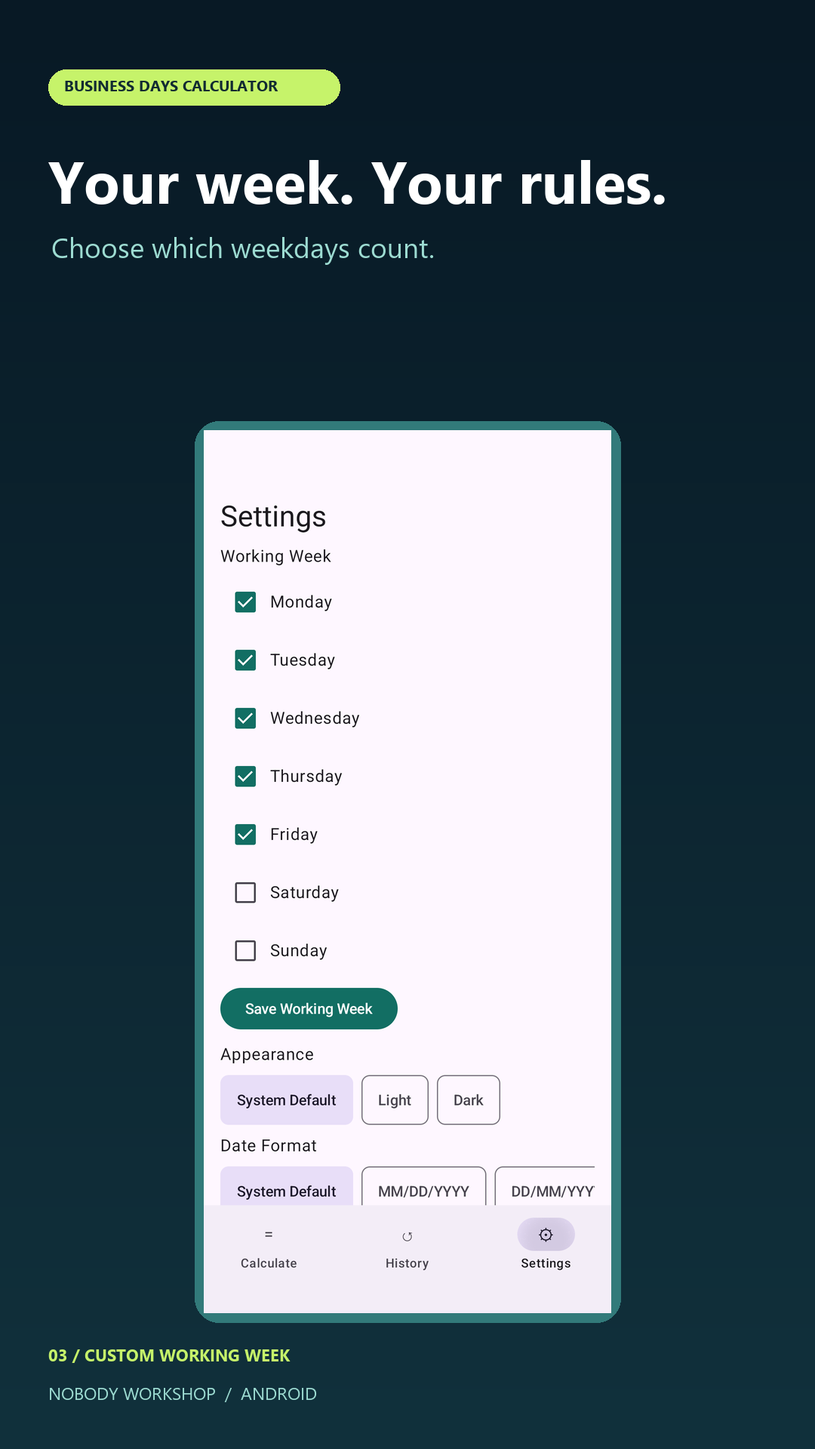
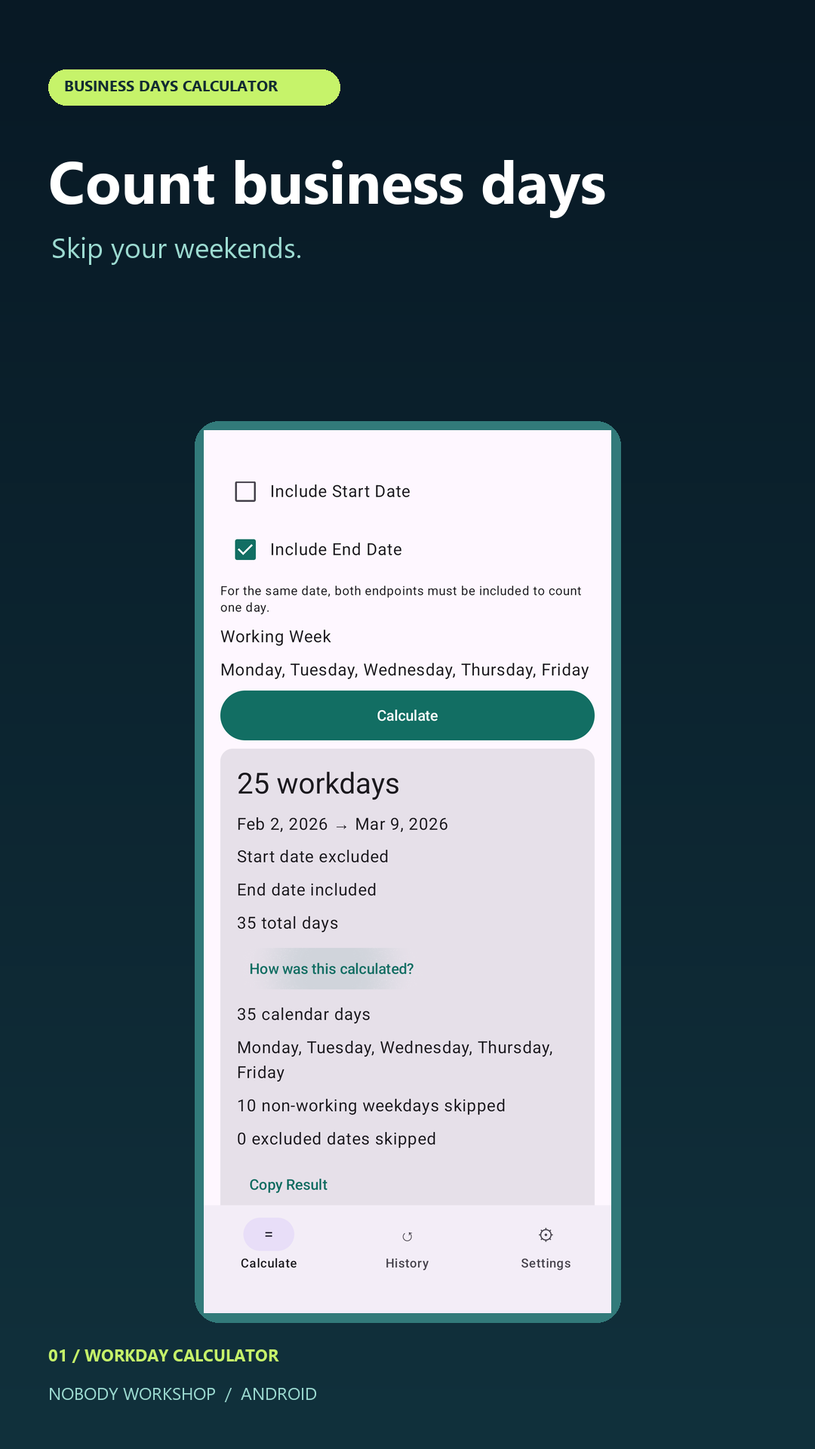
Clarify three product pages with verified steps, screenshots and FAQs

diff --git a/brand-site/business-days/index.html b/brand-site/business-days/index.html
@@ -1,1 +1,1 @@
-<!doctype html><html lang="en"><head><meta charset="utf-8"><meta name="viewport" content="width=device-width,initial-scale=1"><meta name="theme-color" content="#f8f7f2"><title>Business Days: Date Calculator — Nobody Workshop</title><meta name="description" content="Count workdays, add or subtract days, and plan dates with your own working week."><link rel="canonical" href="https://nobodyworkshop.com/business-days/"><meta property="og:title" content="Business Days: Date Calculator — Nobody Workshop"><meta property="og:description" content="Count workdays, add or subtract days, and plan dates with your own working week."><meta property="og:type" content="website"><meta property="og:url" content="https://nobodyworkshop.com/business-days/"><link rel="icon" href="assets/mark.svg" type="image/svg+xml"><link rel="stylesheet" href="assets/site.css"><script type="application/ld+json">{"@context": "https://schema.org", "@type": "SoftwareApplication", "name": "Business Days: Date Calculator", "operatingSystem": "Android", "applicationCategory": "TOOLS", "description": "Count workdays, add or subtract days, and plan dates with your own working week.", "url": "https://nobodyworkshop.com/business-days/", "installUrl": "https://play.google.com/store/apps/details?id=com.nobodyworkshop.businessdays&hl=en_US&gl=US", "image": "https://nobodyworkshop.com/business-days/assets/icon.webp", "author": {"@type": "Organization", "name": "Nobody Workshop"}}</script></head><body><a class="skip" href="#main">Skip to content</a><header class="header wrap"><a class="brand" href="../" aria-label="Nobody Workshop home"><span class="brand-symbol" aria-hidden="true">nw</span><span>Nobody Workshop<span aria-hidden="true">.</span></span></a><a class="back" href="../#products">← All products</a></header><main id="main" class="wrap"><section class="product-hero"><div><img class="detail-icon" src="assets/icon.webp" alt="Business Days: Date Calculator icon" width="86" height="86"><div class="eyebrow" style="margin-top:24px">Utilities / Android App</div><h1>Business Days: Date Calculator</h1><p>Count workdays, add or subtract days, and plan dates with your own working week.</p><a class="pill dark" href="https://play.google.com/store/apps/details?id=com.nobodyworkshop.businessdays&amp;hl=en_US&amp;gl=US">Get it on Google Play <span class="arrow" aria-hidden="true">↗</span></a><div class="detail-meta">By Nobody Workshop · Contains ads<br>Availability and purchase details are shown on Google Play.</div></div><div class="product-art"><img src="assets/screenshot-1.webp" width="1080" height="1920" alt="Business Days: Date Calculator — official store screenshot 1"><img src="assets/screenshot-2.webp" width="1080" height="1920" alt="Business Days: Date Calculator — official store screenshot 2" loading="lazy"></div></section><section class="detail-faq"><div class="eyebrow">A few things to know</div><h2>Before you give it a try.</h2><details><summary>Where can I get it?</summary><p>Download the Android version using the Google Play link above. Google Play shows availability for your country and device.</p></details><details><summary>What do I do in Business Days: Date Calculator?</summary><p>Count workdays, add or subtract days, and plan dates with your own working week.</p></details><details><summary>Does it contain ads?</summary><p>The current Google Play listing declares ads. Check the store page for the latest purchase details and regional availability.</p></details><details><summary>How can I share feedback?</summary><p>Email service@nobodyworkshop.com with the product name and a short description of what happened. Honest feedback is welcome.</p></details><p class="detail-meta"><a class="text-link" href="https://happyxray618.github.io/nobody-workshop-privacy/businessdays/privacy-policy.html">Product privacy policy ↗</a></p></section><section class="product-bottom"><h2>Made it part of your day?</h2><p>Tell me what you think. The person who built it is listening.</p><a class="pill" href="mailto:service@nobodyworkshop.com?subject=business-days%20feedback">Send honest feedback ↗</a></section></main><footer class="wrap"><div class="footer"><a class="brand" href="../" aria-label="Nobody Workshop home"><span class="brand-symbol" aria-hidden="true">nw</span><span>Nobody Workshop<span aria-hidden="true">.</span></span></a><div class="footer-links"><a href="https://play.google.com/store/apps/developer?id=NobodyWorkshop">Google Play ↗</a><a href="mailto:service@nobodyworkshop.com">Support ↗</a><a href="../privacy/">Privacy</a></div><span>© 2026 Nobody Workshop</span></div><div class="legal-note">Android and Google Play are trademarks of Google LLC. Product availability, pricing and features may vary by region and version.</div></footer></body></html>
+<!doctype html><html lang="en"><head><meta charset="utf-8"><meta name="viewport" content="width=device-width,initial-scale=1"><meta name="theme-color" content="#f8f7f2"><title>Business Days: Date Calculator — Nobody Workshop</title><meta name="description" content="Count working days between dates or find a date by adding or subtracting workdays. Choose your working week, add excluded dates, and check exactly how the result was calculated."><link rel="canonical" href="https://nobodyworkshop.com/business-days/"><meta property="og:title" content="Business Days: Date Calculator — Nobody Workshop"><meta property="og:description" content="Count working days between dates or find a date by adding or subtracting workdays. Choose your working week, add excluded dates, and check exactly how the result was calculated."><meta property="og:type" content="website"><meta property="og:url" content="https://nobodyworkshop.com/business-days/"><link rel="icon" href="assets/mark.svg" type="image/svg+xml"><link rel="stylesheet" href="assets/site.css"><script type="application/ld+json">{"@context": "https://schema.org", "@type": "SoftwareApplication", "name": "Business Days: Date Calculator", "operatingSystem": "Android", "applicationCategory": "TOOLS", "description": "Count working days between dates or find a date by adding or subtracting workdays. Choose your working week, add excluded dates, and check exactly how the result was calculated.", "url": "https://nobodyworkshop.com/business-days/", "installUrl": "https://play.google.com/store/apps/details?id=com.nobodyworkshop.businessdays&hl=en_US&gl=US", "image": "https://nobodyworkshop.com/business-days/assets/icon.webp", "author": {"@type": "Organization", "name": "Nobody Workshop"}}</script><style>.product-guide{max-width:850px;margin:0 auto 64px}.product-guide h2{font-size:32px;letter-spacing:-1px;line-height:1.2}.product-guide p,.product-guide li{font-size:16px;line-height:1.75;color:var(--muted)}.product-guide li{padding:0 0 14px 8px}.product-guide ol{padding-left:24px}.product-guide .example{padding:20px 24px;background:#e6e9dd;border-radius:18px}.detail-faq details p{font-size:16px}.product-art figure{margin:0;flex:1;min-width:0}.product-art figure img{max-width:100%;width:100%;height:380px}.product-art figcaption{font-size:14px;line-height:1.5;color:var(--muted);margin-top:12px}@media(max-width:760px){.product-guide{margin-bottom:40px}.product-guide h2{font-size:28px}.product-art figure img{height:300px}}</style></head><body><a class="skip" href="#main">Skip to content</a><header class="header wrap"><a class="brand" href="../" aria-label="Nobody Workshop home"><span class="brand-symbol" aria-hidden="true">nw</span><span>Nobody Workshop<span aria-hidden="true">.</span></span></a><a class="back" href="../#products">← All products</a></header><main id="main" class="wrap"><section class="product-hero"><div><img class="detail-icon" src="assets/icon.webp" alt="Business Days: Date Calculator icon" width="86" height="86"><div class="eyebrow" style="margin-top:24px">Utilities / Android App</div><h1>Business Days: Date Calculator</h1><p>Count working days between dates or find a date by adding or subtracting workdays. Choose your working week, add excluded dates, and check exactly how the result was calculated.</p><a class="pill dark" href="https://play.google.com/store/apps/details?id=com.nobodyworkshop.businessdays&amp;hl=en_US&amp;gl=US">Get it on Google Play <span class="arrow" aria-hidden="true">↗</span></a><div class="detail-meta">By Nobody Workshop · Contains ads<br>Availability and purchase details are shown on Google Play.</div></div><div class="product-art"><figure><img src="assets/screenshot-1.webp" width="1080" height="1920" alt="Check the working-day count and calculation details"><figcaption>Check the working-day count and calculation details</figcaption></figure><figure><img src="assets/screenshot-2.webp" width="1080" height="1920" alt="Choose which weekdays count as working days" loading="lazy"><figcaption>Choose which weekdays count as working days</figcaption></figure></div></section><section class="product-guide" aria-labelledby="how-it-works"><div class="eyebrow">How it works</div><h2 id="how-it-works">From a date question to a result you can check</h2><p class="example">Planning a project or a delivery estimate? Choose the start date and number of workdays, then set your working weekdays and any excluded dates. Review the resulting date and the days skipped before using the estimate.</p><ol><li>Choose business days between dates, add or subtract workdays, calendar days between dates, or add or subtract calendar days.</li><li>Enter your dates or day offset. Select the working weekdays, manually excluded dates, and whether the start and end dates count.</li><li>Read the result and expand the calculation details to check boundaries and skipped dates. Copy the result or reopen one of your five most recent calculations.</li></ol></section><section class="detail-faq"><div class="eyebrow">A few things to know</div><h2>Before you give it a try.</h2><details><summary>Can I use a different working week?</summary><p>Yes. Choose Monday–Friday, Sunday–Thursday, Monday–Saturday or your own combination of weekdays.</p></details><details><summary>Are public holidays excluded automatically?</summary><p>No. Add holidays, company closures or leave dates manually. Public holidays are not supplied or updated automatically.</p></details><details><summary>Can I include or exclude the start and end dates?</summary><p>Yes. Choose whether the boundary dates count, then expand the calculation details to check the rules applied.</p></details><details><summary>Does it work offline, and do I need an account?</summary><p>The core date tools work offline without an account or calendar permission. Calculations and settings stay on this device and do not sync.</p></details><details><summary>Do I have to watch an ad to calculate a date?</summary><p>No. Core calculations and explanations do not require an ad. The app contains banner ads; optional rewarded ads unlock Batch Calculator for the current session or hide banners for 30 minutes.</p></details><details><summary>Can I use it to determine a legal deadline?</summary><p>The app is a date calculator, not a legal deadline service. It does not automatically apply regional holiday rules or determine legal deadlines.</p></details><details><summary>Where can I download Business Days: Date Calculator?</summary><p>Use the Google Play link on this page. Availability depends on your country and device.</p></details><details><summary>Does it contain ads?</summary><p>Yes. The current Google Play listing declares ads. See the product privacy policy for details.</p></details><details><summary>How can I get support?</summary><p>Email service@nobodyworkshop.com with the product name and a short description of your question.</p></details><p class="detail-meta"><a class="text-link" href="https://happyxray618.github.io/nobody-workshop-privacy/businessdays/privacy-policy.html">Product privacy policy ↗</a></p></section><section class="product-bottom"><h2>Made it part of your day?</h2><p>Tell me what you think. The person who built it is listening.</p><a class="pill" href="mailto:service@nobodyworkshop.com?subject=business-days%20feedback">Send honest feedback ↗</a></section></main><footer class="wrap"><div class="footer"><a class="brand" href="../" aria-label="Nobody Workshop home"><span class="brand-symbol" aria-hidden="true">nw</span><span>Nobody Workshop<span aria-hidden="true">.</span></span></a><div class="footer-links"><a href="https://play.google.com/store/apps/developer?id=NobodyWorkshop">Google Play ↗</a><a href="mailto:service@nobodyworkshop.com">Support ↗</a><a href="../privacy/">Privacy</a></div><span>© 2026 Nobody Workshop</span></div><div class="legal-note">Android and Google Play are trademarks of Google LLC. Product availability, pricing and features may vary by region and version.</div></footer></body></html>

diff --git a/brand-site/winter-atelier/index.html b/brand-site/winter-atelier/index.html
@@ -1,1 +1,1 @@
-<!doctype html><html lang="en"><head><meta charset="utf-8"><meta name="viewport" content="width=device-width,initial-scale=1"><meta name="theme-color" content="#f8f7f2"><title>Tile Match: Cozy Cabin — Nobody Workshop</title><meta name="description" content="Relax with triple tile matching puzzles and decorate your cozy winter cabin."><link rel="canonical" href="https://nobodyworkshop.com/winter-atelier/"><meta property="og:title" content="Tile Match: Cozy Cabin — Nobody Workshop"><meta property="og:description" content="Relax with triple tile matching puzzles and decorate your cozy winter cabin."><meta property="og:type" content="website"><meta property="og:url" content="https://nobodyworkshop.com/winter-atelier/"><link rel="icon" href="assets/mark.svg" type="image/svg+xml"><link rel="stylesheet" href="assets/site.css"><script type="application/ld+json">{"@context": "https://schema.org", "@type": "SoftwareApplication", "name": "Tile Match: Cozy Cabin", "operatingSystem": "Android", "applicationCategory": "GAME_PUZZLE", "description": "Relax with triple tile matching puzzles and decorate your cozy winter cabin.", "url": "https://nobodyworkshop.com/winter-atelier/", "installUrl": "https://play.google.com/store/apps/details?id=com.nobodyworkshop.winteratelier&hl=en_US&gl=US", "image": "https://nobodyworkshop.com/winter-atelier/assets/icon.webp", "author": {"@type": "Organization", "name": "Nobody Workshop"}}</script></head><body><a class="skip" href="#main">Skip to content</a><header class="header wrap"><a class="brand" href="../" aria-label="Nobody Workshop home"><span class="brand-symbol" aria-hidden="true">nw</span><span>Nobody Workshop<span aria-hidden="true">.</span></span></a><a class="back" href="../#products">← All products</a></header><main id="main" class="wrap"><section class="product-hero"><div><img class="detail-icon" src="assets/icon.webp" alt="Tile Match: Cozy Cabin icon" width="86" height="86"><div class="eyebrow" style="margin-top:24px">Puzzle / Android Game</div><h1>Tile Match: Cozy Cabin</h1><p>Relax with triple tile matching puzzles and decorate your cozy winter cabin.</p><a class="pill dark" href="https://play.google.com/store/apps/details?id=com.nobodyworkshop.winteratelier&amp;hl=en_US&amp;gl=US">Get it on Google Play <span class="arrow" aria-hidden="true">↗</span></a><div class="detail-meta">By Nobody Workshop · Contains ads<br>Availability and purchase details are shown on Google Play.</div></div><div class="product-art"><img src="assets/screenshot-1.webp" width="1080" height="1920" alt="Tile Match: Cozy Cabin — official store screenshot 1"><img src="assets/screenshot-2.webp" width="1080" height="1920" alt="Tile Match: Cozy Cabin — official store screenshot 2" loading="lazy"></div></section><section class="detail-faq"><div class="eyebrow">A few things to know</div><h2>Before you give it a try.</h2><details><summary>Where can I get it?</summary><p>Download the Android version using the Google Play link above. Google Play shows availability for your country and device.</p></details><details><summary>Is this Winter Atelier?</summary><p>Yes. Tile Match: Cozy Cabin was previously called Winter Atelier. The Google Play package and download link are unchanged.</p></details><details><summary>What do I do in Tile Match: Cozy Cabin?</summary><p>Relax with triple tile matching puzzles and decorate your cozy winter cabin.</p></details><details><summary>Does it contain ads?</summary><p>The current Google Play listing declares ads. Check the store page for the latest purchase details and regional availability.</p></details><details><summary>How can I share feedback?</summary><p>Email service@nobodyworkshop.com with the product name and a short description of what happened. Honest feedback is welcome.</p></details><p class="detail-meta"><a class="text-link" href="https://happyxray618.github.io/nobody-workshop-privacy/winter-atelier/privacy-policy.html">Product privacy policy ↗</a></p></section><section class="product-bottom"><h2>Made it part of your day?</h2><p>Tell me what you think. The person who built it is listening.</p><a class="pill" href="mailto:service@nobodyworkshop.com?subject=winter-atelier%20feedback">Send honest feedback ↗</a></section></main><footer class="wrap"><div class="footer"><a class="brand" href="../" aria-label="Nobody Workshop home"><span class="brand-symbol" aria-hidden="true">nw</span><span>Nobody Workshop<span aria-hidden="true">.</span></span></a><div class="footer-links"><a href="https://play.google.com/store/apps/developer?id=NobodyWorkshop">Google Play ↗</a><a href="mailto:service@nobodyworkshop.com">Support ↗</a><a href="../privacy/">Privacy</a></div><span>© 2026 Nobody Workshop</span></div><div class="legal-note">Android and Google Play are trademarks of Google LLC. Product availability, pricing and features may vary by region and version.</div></footer></body></html>
+<!doctype html><html lang="en"><head><meta charset="utf-8"><meta name="viewport" content="width=device-width,initial-scale=1"><meta name="theme-color" content="#f8f7f2"><title>Tile Match: Cozy Cabin — Nobody Workshop</title><meta name="description" content="Tap tiles and match three identical ones to clear the board. Plan around a seven-slot holding tray, uncover layered tiles, and unlock decorations for your cozy winter cabin as you progress."><link rel="canonical" href="https://nobodyworkshop.com/winter-atelier/"><meta property="og:title" content="Tile Match: Cozy Cabin — Nobody Workshop"><meta property="og:description" content="Tap tiles and match three identical ones to clear the board. Plan around a seven-slot holding tray, uncover layered tiles, and unlock decorations for your cozy winter cabin as you progress."><meta property="og:type" content="website"><meta property="og:url" content="https://nobodyworkshop.com/winter-atelier/"><link rel="icon" href="assets/mark.svg" type="image/svg+xml"><link rel="stylesheet" href="assets/site.css"><script type="application/ld+json">{"@context": "https://schema.org", "@type": "SoftwareApplication", "name": "Tile Match: Cozy Cabin", "operatingSystem": "Android", "applicationCategory": "GAME_PUZZLE", "description": "Tap tiles and match three identical ones to clear the board. Plan around a seven-slot holding tray, uncover layered tiles, and unlock decorations for your cozy winter cabin as you progress.", "url": "https://nobodyworkshop.com/winter-atelier/", "installUrl": "https://play.google.com/store/apps/details?id=com.nobodyworkshop.winteratelier&hl=en_US&gl=US", "image": "https://nobodyworkshop.com/winter-atelier/assets/icon.webp", "author": {"@type": "Organization", "name": "Nobody Workshop"}}</script><style>.product-guide{max-width:850px;margin:0 auto 64px}.product-guide h2{font-size:32px;letter-spacing:-1px;line-height:1.2}.product-guide p,.product-guide li{font-size:16px;line-height:1.75;color:var(--muted)}.product-guide li{padding:0 0 14px 8px}.product-guide ol{padding-left:24px}.product-guide .example{padding:20px 24px;background:#e6e9dd;border-radius:18px}.detail-faq details p{font-size:16px}.product-art figure{margin:0;flex:1;min-width:0}.product-art figure img{max-width:100%;width:100%;height:380px}.product-art figcaption{font-size:14px;line-height:1.5;color:var(--muted);margin-top:12px}@media(max-width:760px){.product-guide{margin-bottom:40px}.product-guide h2{font-size:28px}.product-art figure img{height:300px}}</style></head><body><a class="skip" href="#main">Skip to content</a><header class="header wrap"><a class="brand" href="../" aria-label="Nobody Workshop home"><span class="brand-symbol" aria-hidden="true">nw</span><span>Nobody Workshop<span aria-hidden="true">.</span></span></a><a class="back" href="../#products">← All products</a></header><main id="main" class="wrap"><section class="product-hero"><div><img class="detail-icon" src="assets/icon.webp" alt="Tile Match: Cozy Cabin icon" width="86" height="86"><div class="eyebrow" style="margin-top:24px">Puzzle / Android Game</div><h1>Tile Match: Cozy Cabin</h1><p>Tap tiles and match three identical ones to clear the board. Plan around a seven-slot holding tray, uncover layered tiles, and unlock decorations for your cozy winter cabin as you progress.</p><a class="pill dark" href="https://play.google.com/store/apps/details?id=com.nobodyworkshop.winteratelier&amp;hl=en_US&amp;gl=US">Get it on Google Play <span class="arrow" aria-hidden="true">↗</span></a><div class="detail-meta">By Nobody Workshop · Contains ads<br>Availability and purchase details are shown on Google Play.</div></div><div class="product-art"><figure><img src="assets/screenshot-1.webp" width="1080" height="1920" alt="Match three identical tiles in a seven-slot tray"><figcaption>Match three identical tiles in a seven-slot tray</figcaption></figure><figure><img src="assets/screenshot-2.webp" width="1080" height="1920" alt="Build combos with consecutive triple matches" loading="lazy"><figcaption>Build combos with consecutive triple matches</figcaption></figure></div></section><section class="product-guide" aria-labelledby="how-it-works"><div class="eyebrow">How it works</div><h2 id="how-it-works">Match three tiles, then make the cabin your own</h2><p class="example">Looking for a triple tile matching puzzle with a cozy setting? The matching board is the core game: clear three identical tiles at a time, keep space in the tray, and reveal tiles underneath. Cabin decoration follows your puzzle progress.</p><ol><li>Tap a tile to move it from the board into the holding tray.</li><li>Collect three identical tiles in the tray to clear them. Plan your next match before the seven slots fill.</li><li>Keep matching until the board is empty. Progress through puzzle levels to unlock cabin decorations; use Undo, Hint or Shuffle when you need help.</li></ol></section><section class="detail-faq"><div class="eyebrow">A few things to know</div><h2>Before you give it a try.</h2><details><summary>How do I play the triple tile matching puzzle?</summary><p>Tap tiles into the holding tray. Three identical tiles clear together. Clear the board while managing the seven available tray slots.</p></details><details><summary>Is cabin decoration the main gameplay?</summary><p>The core gameplay is triple tile matching. Progress through puzzle levels to unlock decorations for the winter cabin.</p></details><details><summary>Can I play the puzzles offline?</summary><p>Yes. Core puzzle gameplay works offline, with no account required for regular play. Optional rewarded ads require internet.</p></details><details><summary>What tools can help with a difficult board?</summary><p>Undo, Hint and Shuffle are available to help with puzzle boards.</p></details><details><summary>Is this Winter Atelier?</summary><p>Yes. Tile Match: Cozy Cabin was previously called Winter Atelier. The Google Play package and download link are unchanged.</p></details><details><summary>Where can I download Tile Match: Cozy Cabin?</summary><p>Use the Google Play link on this page. Availability depends on your country and device.</p></details><details><summary>Does it contain ads?</summary><p>Yes. The current Google Play listing declares ads. See the product privacy policy for details.</p></details><details><summary>How can I get support?</summary><p>Email service@nobodyworkshop.com with the product name and a short description of your question.</p></details><p class="detail-meta"><a class="text-link" href="https://happyxray618.github.io/nobody-workshop-privacy/winter-atelier/privacy-policy.html">Product privacy policy ↗</a></p></section><section class="product-bottom"><h2>Made it part of your day?</h2><p>Tell me what you think. The person who built it is listening.</p><a class="pill" href="mailto:service@nobodyworkshop.com?subject=winter-atelier%20feedback">Send honest feedback ↗</a></section></main><footer class="wrap"><div class="footer"><a class="brand" href="../" aria-label="Nobody Workshop home"><span class="brand-symbol" aria-hidden="true">nw</span><span>Nobody Workshop<span aria-hidden="true">.</span></span></a><div class="footer-links"><a href="https://play.google.com/store/apps/developer?id=NobodyWorkshop">Google Play ↗</a><a href="mailto:service@nobodyworkshop.com">Support ↗</a><a href="../privacy/">Privacy</a></div><span>© 2026 Nobody Workshop</span></div><div class="legal-note">Android and Google Play are trademarks of Google LLC. Product availability, pricing and features may vary by region and version.</div></footer></body></html>

diff --git a/brand-site/work-hours/index.html b/brand-site/work-hours/index.html
@@ -1,1 +1,1 @@
-<!doctype html><html lang="en"><head><meta charset="utf-8"><meta name="viewport" content="width=device-width,initial-scale=1"><meta name="theme-color" content="#f8f7f2"><title>Work Hours Calculator — Nobody Workshop</title><meta name="description" content="Calculate work hours for overnight shifts, subtract breaks and see overtime pay."><link rel="canonical" href="https://nobodyworkshop.com/work-hours/"><meta property="og:title" content="Work Hours Calculator — Nobody Workshop"><meta property="og:description" content="Calculate work hours for overnight shifts, subtract breaks and see overtime pay."><meta property="og:type" content="website"><meta property="og:url" content="https://nobodyworkshop.com/work-hours/"><link rel="icon" href="assets/mark.svg" type="image/svg+xml"><link rel="stylesheet" href="assets/site.css"><script type="application/ld+json">{"@context": "https://schema.org", "@type": "SoftwareApplication", "name": "Work Hours Calculator", "operatingSystem": "Android", "applicationCategory": "TOOLS", "description": "Calculate work hours for overnight shifts, subtract breaks and see overtime pay.", "url": "https://nobodyworkshop.com/work-hours/", "installUrl": "https://play.google.com/store/apps/details?id=com.nobodyworkshop.workhours&hl=en_US&gl=US", "image": "https://nobodyworkshop.com/work-hours/assets/icon.webp", "author": {"@type": "Organization", "name": "Nobody Workshop"}}</script></head><body><a class="skip" href="#main">Skip to content</a><header class="header wrap"><a class="brand" href="../" aria-label="Nobody Workshop home"><span class="brand-symbol" aria-hidden="true">nw</span><span>Nobody Workshop<span aria-hidden="true">.</span></span></a><a class="back" href="../#products">← All products</a></header><main id="main" class="wrap"><section class="product-hero"><div><img class="detail-icon" src="assets/icon.webp" alt="Work Hours Calculator icon" width="86" height="86"><div class="eyebrow" style="margin-top:24px">Utilities / Android App</div><h1>Work Hours Calculator</h1><p>Calculate work hours for overnight shifts, subtract breaks and see overtime pay.</p><a class="pill dark" href="https://play.google.com/store/apps/details?id=com.nobodyworkshop.workhours&amp;hl=en_US&amp;gl=US">Get it on Google Play <span class="arrow" aria-hidden="true">↗</span></a><div class="detail-meta">By Nobody Workshop · Contains ads<br>Availability and purchase details are shown on Google Play.</div></div><div class="product-art"><img src="assets/screenshot-1.webp" width="1080" height="1920" alt="Work Hours Calculator — official store screenshot 1"><img src="assets/screenshot-2.webp" width="1080" height="1920" alt="Work Hours Calculator — official store screenshot 2" loading="lazy"></div></section><section class="detail-faq"><div class="eyebrow">A few things to know</div><h2>Before you give it a try.</h2><details><summary>Where can I get it?</summary><p>Download the Android version using the Google Play link above. Google Play shows availability for your country and device.</p></details><details><summary>What do I do in Work Hours Calculator?</summary><p>Calculate work hours for overnight shifts, subtract breaks and see overtime pay.</p></details><details><summary>Does it contain ads?</summary><p>The current Google Play listing declares ads. Check the store page for the latest purchase details and regional availability.</p></details><details><summary>How can I share feedback?</summary><p>Email service@nobodyworkshop.com with the product name and a short description of what happened. Honest feedback is welcome.</p></details><p class="detail-meta"><a class="text-link" href="https://happyxray618.github.io/nobody-workshop-privacy/workhours/privacy-policy.html">Product privacy policy ↗</a></p></section><section class="product-bottom"><h2>Made it part of your day?</h2><p>Tell me what you think. The person who built it is listening.</p><a class="pill" href="mailto:service@nobodyworkshop.com?subject=work-hours%20feedback">Send honest feedback ↗</a></section></main><footer class="wrap"><div class="footer"><a class="brand" href="../" aria-label="Nobody Workshop home"><span class="brand-symbol" aria-hidden="true">nw</span><span>Nobody Workshop<span aria-hidden="true">.</span></span></a><div class="footer-links"><a href="https://play.google.com/store/apps/developer?id=NobodyWorkshop">Google Play ↗</a><a href="mailto:service@nobodyworkshop.com">Support ↗</a><a href="../privacy/">Privacy</a></div><span>© 2026 Nobody Workshop</span></div><div class="legal-note">Android and Google Play are trademarks of Google LLC. Product availability, pricing and features may vary by region and version.</div></footer></body></html>
+<!doctype html><html lang="en"><head><meta charset="utf-8"><meta name="viewport" content="width=device-width,initial-scale=1"><meta name="theme-color" content="#f8f7f2"><title>Work Hours Calculator — Nobody Workshop</title><meta name="description" content="Calculate paid shift hours and estimated pay. Enter start and end times, subtract unpaid breaks, and see regular pay and overtime separately — including shifts that finish the next day."><link rel="canonical" href="https://nobodyworkshop.com/work-hours/"><meta property="og:title" content="Work Hours Calculator — Nobody Workshop"><meta property="og:description" content="Calculate paid shift hours and estimated pay. Enter start and end times, subtract unpaid breaks, and see regular pay and overtime separately — including shifts that finish the next day."><meta property="og:type" content="website"><meta property="og:url" content="https://nobodyworkshop.com/work-hours/"><link rel="icon" href="assets/mark.svg" type="image/svg+xml"><link rel="stylesheet" href="assets/site.css"><script type="application/ld+json">{"@context": "https://schema.org", "@type": "SoftwareApplication", "name": "Work Hours Calculator", "operatingSystem": "Android", "applicationCategory": "TOOLS", "description": "Calculate paid shift hours and estimated pay. Enter start and end times, subtract unpaid breaks, and see regular pay and overtime separately — including shifts that finish the next day.", "url": "https://nobodyworkshop.com/work-hours/", "installUrl": "https://play.google.com/store/apps/details?id=com.nobodyworkshop.workhours&hl=en_US&gl=US", "image": "https://nobodyworkshop.com/work-hours/assets/icon.webp", "author": {"@type": "Organization", "name": "Nobody Workshop"}}</script><style>.product-guide{max-width:850px;margin:0 auto 64px}.product-guide h2{font-size:32px;letter-spacing:-1px;line-height:1.2}.product-guide p,.product-guide li{font-size:16px;line-height:1.75;color:var(--muted)}.product-guide li{padding:0 0 14px 8px}.product-guide ol{padding-left:24px}.product-guide .example{padding:20px 24px;background:#e6e9dd;border-radius:18px}.detail-faq details p{font-size:16px}.product-art figure{margin:0;flex:1;min-width:0}.product-art figure img{max-width:100%;width:100%;height:380px}.product-art figcaption{font-size:14px;line-height:1.5;color:var(--muted);margin-top:12px}@media(max-width:760px){.product-guide{margin-bottom:40px}.product-guide h2{font-size:28px}.product-art figure img{height:300px}}</style></head><body><a class="skip" href="#main">Skip to content</a><header class="header wrap"><a class="brand" href="../" aria-label="Nobody Workshop home"><span class="brand-symbol" aria-hidden="true">nw</span><span>Nobody Workshop<span aria-hidden="true">.</span></span></a><a class="back" href="../#products">← All products</a></header><main id="main" class="wrap"><section class="product-hero"><div><img class="detail-icon" src="assets/icon.webp" alt="Work Hours Calculator icon" width="86" height="86"><div class="eyebrow" style="margin-top:24px">Utilities / Android App</div><h1>Work Hours Calculator</h1><p>Calculate paid shift hours and estimated pay. Enter start and end times, subtract unpaid breaks, and see regular pay and overtime separately — including shifts that finish the next day.</p><a class="pill dark" href="https://play.google.com/store/apps/details?id=com.nobodyworkshop.workhours&amp;hl=en_US&amp;gl=US">Get it on Google Play <span class="arrow" aria-hidden="true">↗</span></a><div class="detail-meta">By Nobody Workshop · Contains ads<br>Availability and purchase details are shown on Google Play.</div></div><div class="product-art"><figure><img src="assets/screenshot-1.webp" width="1080" height="1920" alt="Enter shift times, break and hourly rate"><figcaption>Enter shift times, break and hourly rate</figcaption></figure><figure><img src="assets/screenshot-2.webp" width="1080" height="1920" alt="Check paid hours and the estimated pay breakdown" loading="lazy"><figcaption>Check paid hours and the estimated pay breakdown</figcaption></figure></div></section><section class="product-guide" aria-labelledby="how-it-works"><div class="eyebrow">How it works</div><h2 id="how-it-works">From a shift to paid hours</h2><p class="example">For example: 22:00 to 06:00 is an eight-hour overnight shift. Subtract a 30-minute unpaid break to get 7 hours 30 minutes of paid time. Pay depends on the hourly rate and per-shift overtime settings you enter.</p><ol><li>Enter the shift start and end times, unpaid break and hourly rate.</li><li>Choose an overtime threshold and multiplier if you need them. Check paid hours, regular pay, overtime pay and the estimated total.</li><li>Save the shift on your device and review weekly totals. Shifts are grouped by their start date.</li></ol></section><section class="detail-faq"><div class="eyebrow">A few things to know</div><h2>Before you give it a try.</h2><details><summary>Can it calculate work hours across midnight?</summary><p>Yes. An end time earlier than the start time is treated as the next day. Unpaid breaks are subtracted from the shift.</p></details><details><summary>Does it calculate weekly overtime automatically?</summary><p>No. The threshold and multiplier you choose apply to each shift separately. The app does not automatically apply local labor laws. Pay is an estimate before taxes and deductions.</p></details><details><summary>Can I use it offline without an account?</summary><p>Yes. Calculations and saved work records work offline with no registration. Advertising services need internet.</p></details><details><summary>Are my saved shifts synced or exported?</summary><p>No. Work records stay on this device, with no cloud sync or export. Uninstalling removes local records.</p></details><details><summary>Where can I download Work Hours Calculator?</summary><p>Use the Google Play link on this page. Availability depends on your country and device.</p></details><details><summary>Does it contain ads?</summary><p>Yes. The current Google Play listing declares ads. See the product privacy policy for details.</p></details><details><summary>How can I get support?</summary><p>Email service@nobodyworkshop.com with the product name and a short description of your question.</p></details><p class="detail-meta"><a class="text-link" href="https://happyxray618.github.io/nobody-workshop-privacy/workhours/privacy-policy.html">Product privacy policy ↗</a></p></section><section class="product-bottom"><h2>Made it part of your day?</h2><p>Tell me what you think. The person who built it is listening.</p><a class="pill" href="mailto:service@nobodyworkshop.com?subject=work-hours%20feedback">Send honest feedback ↗</a></section></main><footer class="wrap"><div class="footer"><a class="brand" href="../" aria-label="Nobody Workshop home"><span class="brand-symbol" aria-hidden="true">nw</span><span>Nobody Workshop<span aria-hidden="true">.</span></span></a><div class="footer-links"><a href="https://play.google.com/store/apps/developer?id=NobodyWorkshop">Google Play ↗</a><a href="mailto:service@nobodyworkshop.com">Support ↗</a><a href="../privacy/">Privacy</a></div><span>© 2026 Nobody Workshop</span></div><div class="legal-note">Android and Google Play are trademarks of Google LLC. Product availability, pricing and features may vary by region and version.</div></footer></body></html>
